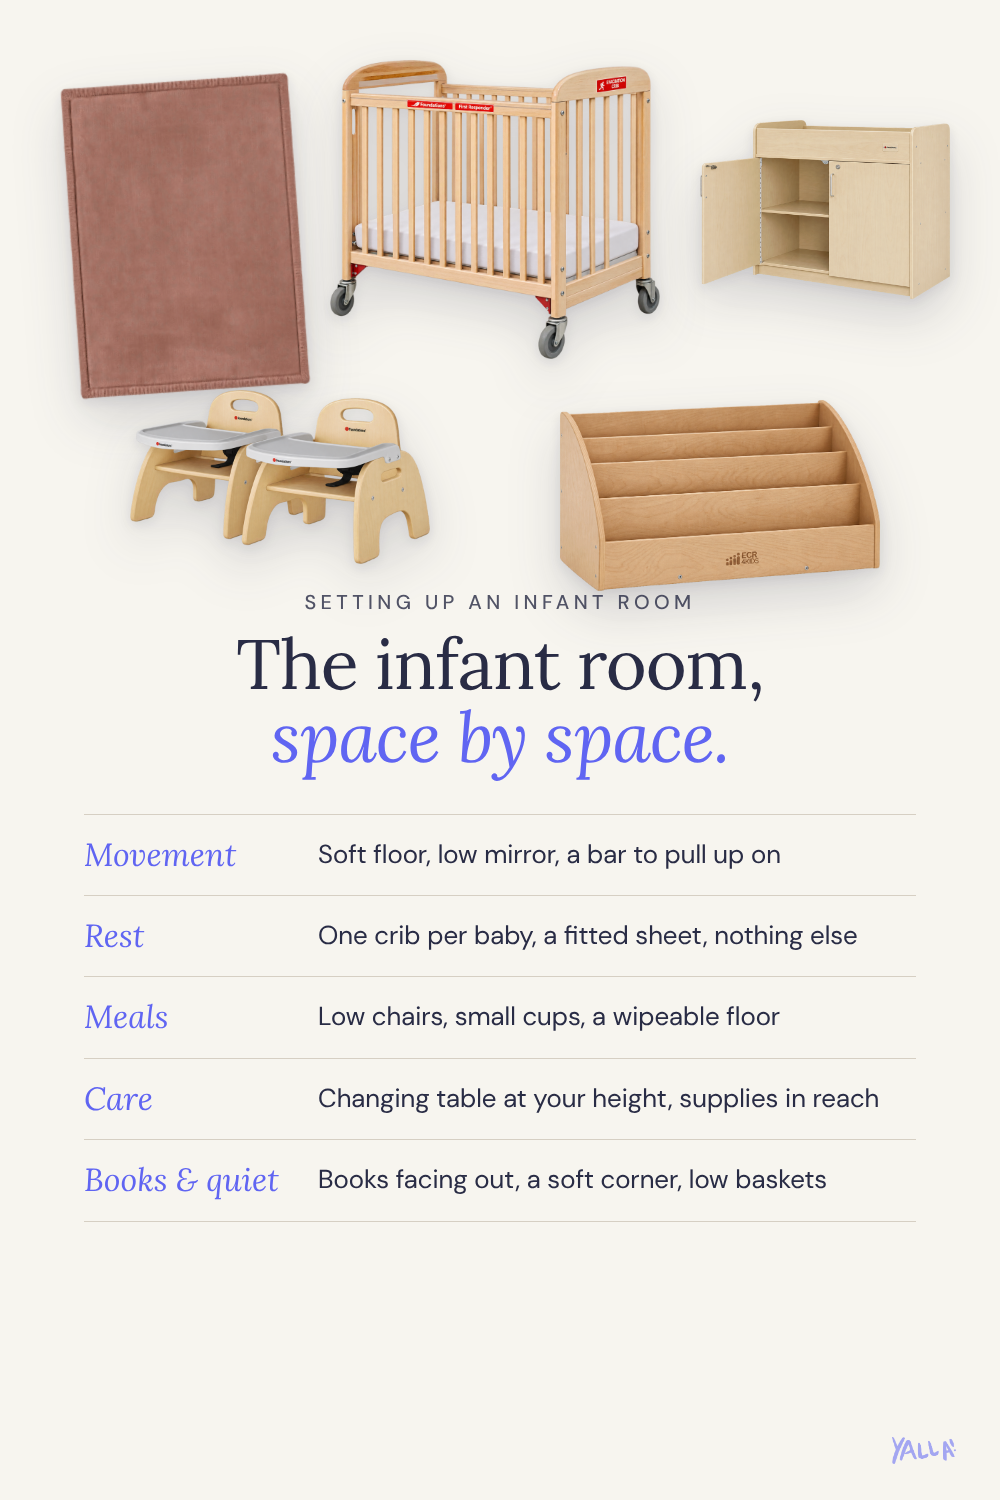
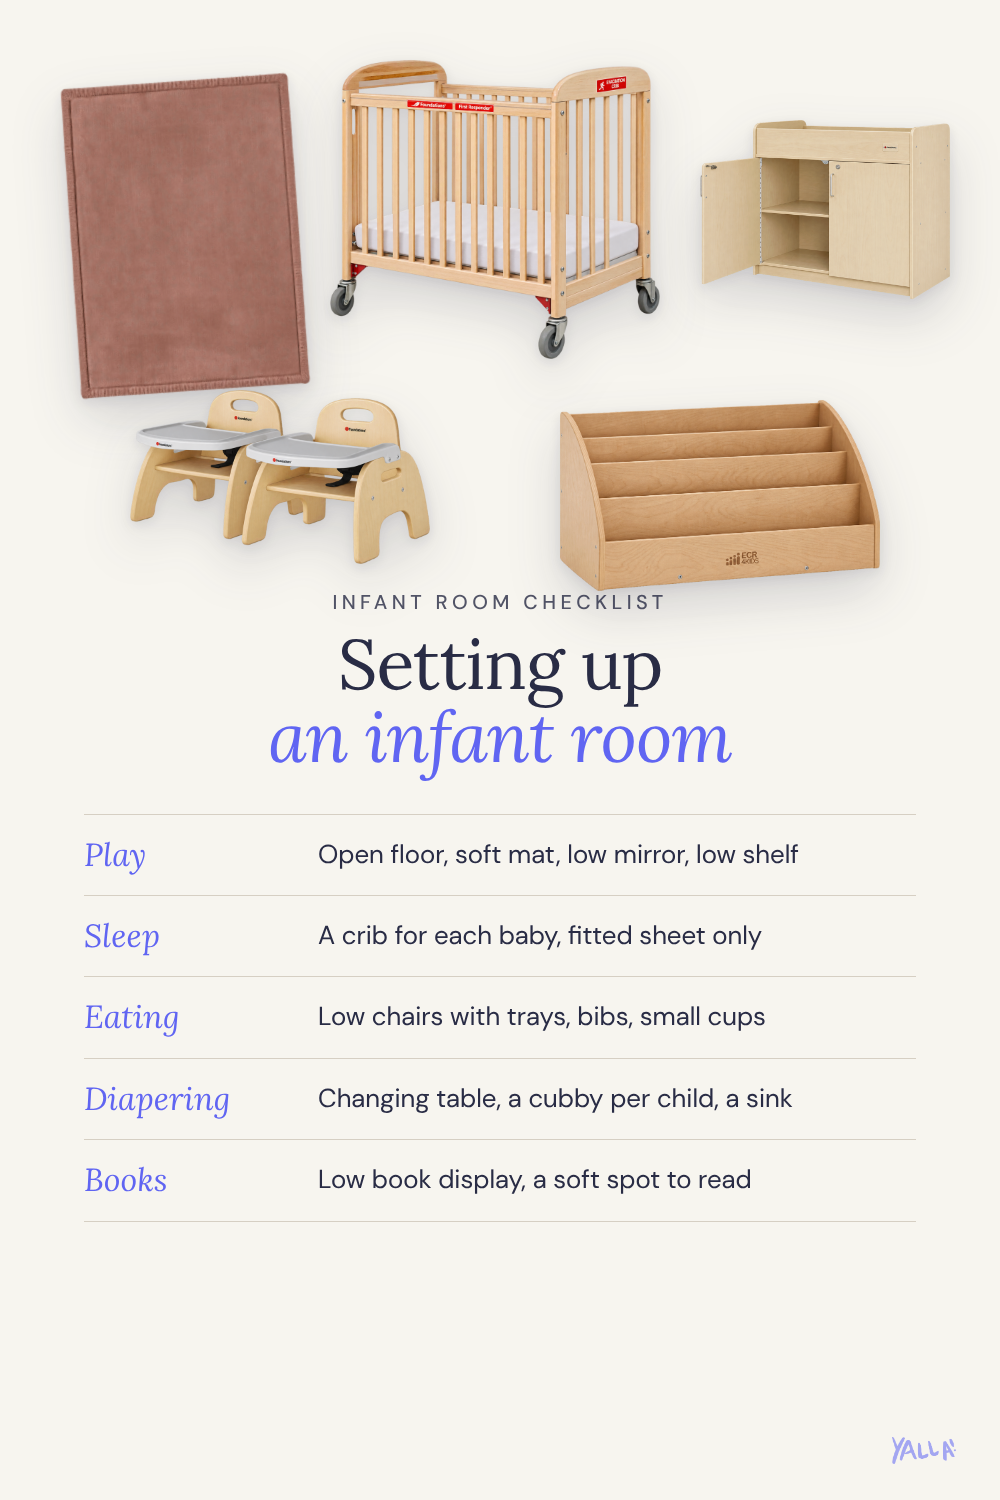
Nothing goes to Buffer without Ellie's explicit approval; overview Pin rewritten in plain language
Claude-Session: https://claude.ai/code/session_01SBHTUaJiKef3t5cmz8JyHA

diff --git a/STANDARDS.md b/STANDARDS.md
@@ -13,7 +13,8 @@ Honesty note: no copy guarantees virality. We maximise the odds: usefulness, sea
 
 ## 2. Workflow (non-negotiable)
 
-- Claude builds Pins and saves them to **Buffer as drafts only**. Never `shareNow`, never `addToQueue`, never `shareNext`.
+- **Nothing goes to Buffer without Ellie's explicit go-ahead.** Claude shows every Pin (image, title, description, alt text, board, link, planned date) to Ellie first. Only after she explicitly approves that Pin does Claude save it to Buffer. Approval of one Pin or batch never carries over to others.
+- Once approved, Claude saves Pins to **Buffer as drafts only**. Never `shareNow`, never `addToQueue`, never `shareNext`.
 - **Every draft carries its own planned date and time** (`mode: customScheduled` with `dueAt`, plus `saveToDraft: true`), chosen by the spacing rules in §7a. That way, when Ellie approves a draft, it goes out on its planned day, never back to back with similar Pins. Tell Ellie to approve drafts with **Schedule** (keeping the planned time), not "Add to Queue".
 - Ellie reviews, tweaks and approves each draft in Buffer.
 - Every Pin made is logged in `log/pins.jsonl`.
